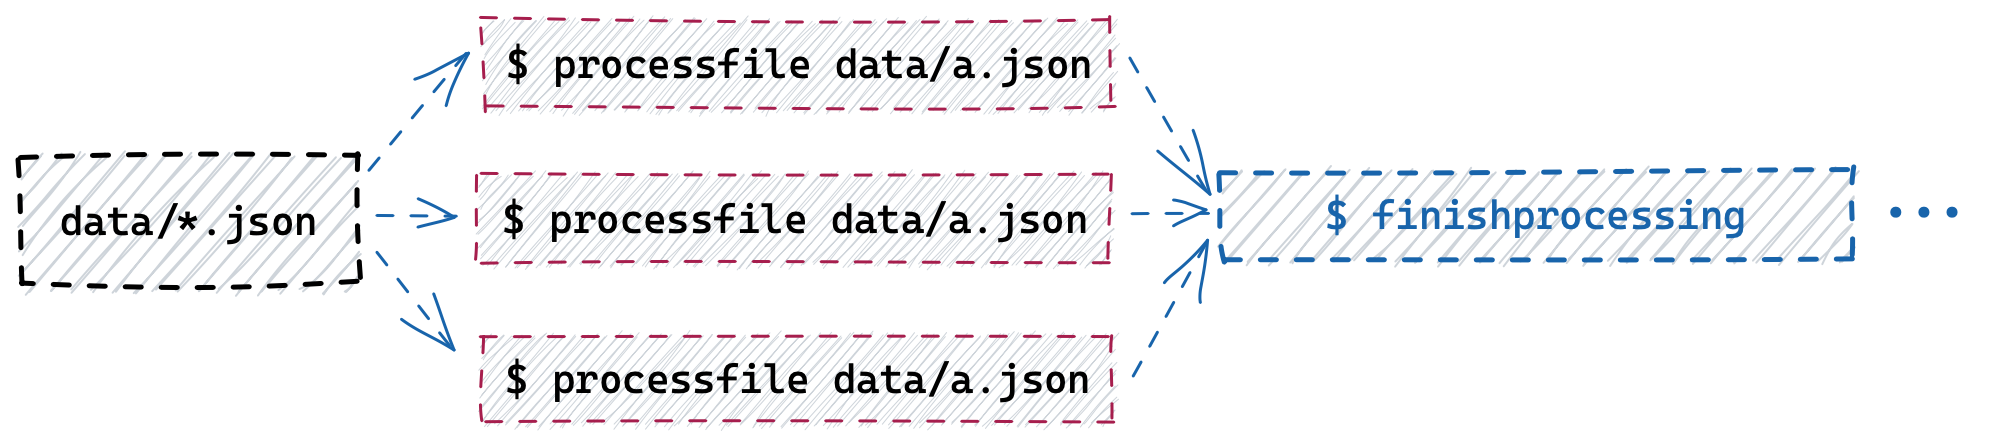
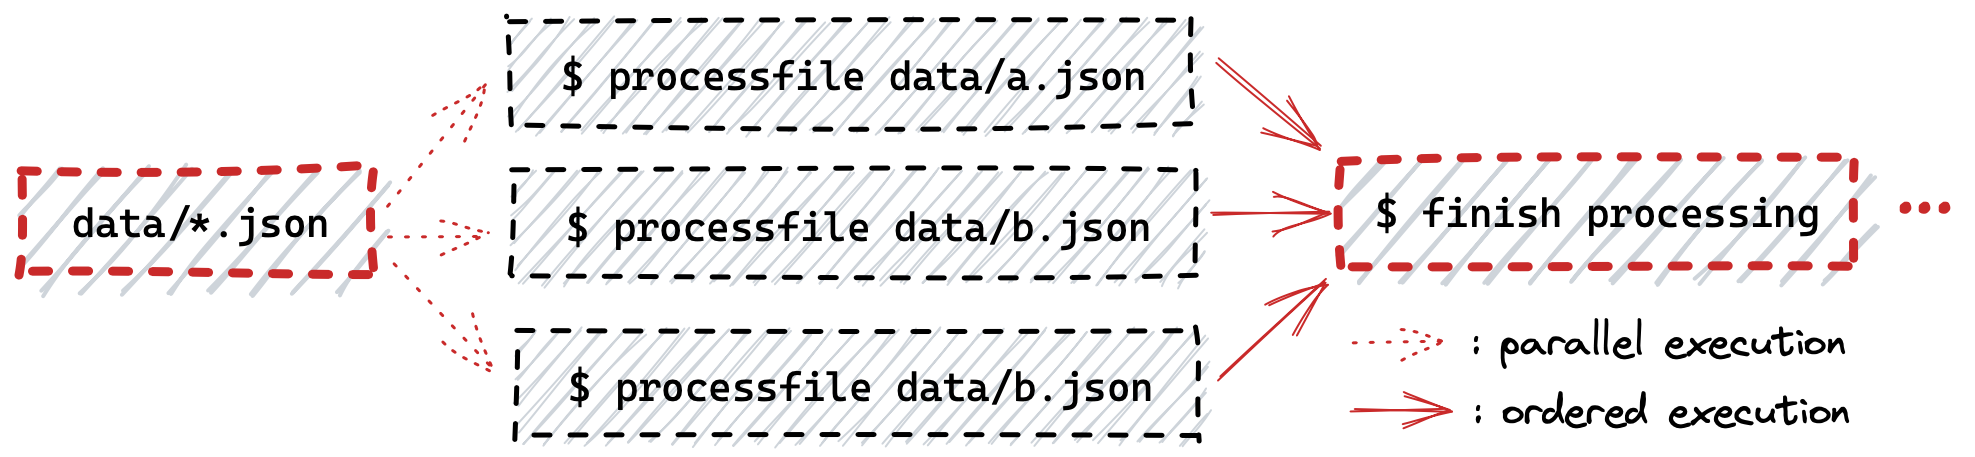
Update image for flow1 and 1 typo

diff --git a/src/_posts/2021-09-25-makefiles-for-execution-coordination.md b/src/_posts/2021-09-25-makefiles-for-execution-coordination.md
@@ -25,7 +25,7 @@ Candidate solutions:
 
 ## make
 
-I chatted with a friend about this and he instantly said "just use make". I knew `make` was the main built tool for C/C++ projects, with fancy dynamic rules, running only the steps that have to run in the right order, and with good performance. I never used it though solely as an orchestration tool, with nothing to compile...
+I chatted with a friend about this and he instantly said "just use make". I knew `make` was the main build tool for C/C++ projects, with fancy dynamic rules, running only the steps that have to run in the right order, and with good performance. I never used it though solely as an orchestration tool, with nothing to compile...
 
 If you are not familiar with `make`, these are great resources on writing Makefiles:
 - https://makefiletutorial.com/
